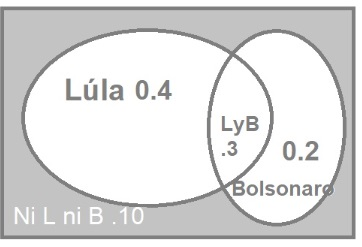
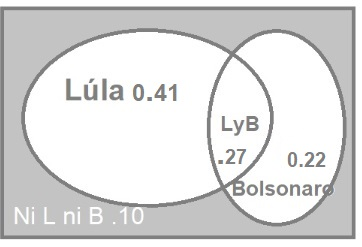
mmm

Changed region(s): [[0.7597, 0.5668, 0.9116, 0.6802], [0.3646, 0.3117, 0.4862, 0.4251], [0.6077, 0.5668, 0.6989, 0.6802]]

diff --git a/content/post/unidad_2_2_3.html b/content/post/unidad_2_2_3.html
@@ -129,10 +129,10 @@ primera carta es <strong>roja</strong>, sabemos que sólo quedan 25 cartas rojas
 <div id="ejemplo" class="section level5">
 <h5>Ejemplo</h5>
 <p>¿Quién será el próximo presidente de México?</p>
-<p>El Proceso electoral está en pleno curso en <strong>Brasil</strong>, tanto el candidato <strong>Jair Bolsonaro</strong> como <strong>Lúla da Silva</strong> han avanzado a la segunda ronda. Cármen Aristegui, una analista mexicana, cree que Lúla tiene un <span class="math inline">\(70\%\)</span> de probabilidades de obtener el mayor número de votos en la eleccióna a la presidencia mientras que que Bolsonaro un <span class="math inline">\(50\%\)</span>
-Adicionalmente Aristegui cree que hay una probabilidad del <span class="math inline">\(30\%\)</span> de que ambos obtengan la misma cantidad de votos. Se sabe ademas que la candidata Simone Tebet también esta en la contienda y obtuvo el <span class="math inline">\(4\%\)</span> del total de los votos.</p>
+<p>El Proceso electoral está en pleno curso en <strong>Brasil</strong>, tanto el candidato <strong>Jair Bolsonaro</strong> como <strong>Lúla da Silva</strong> han avanzado a la segunda ronda. Cármen Aristegui, una analista mexicana, cree que Lúla tiene un <span class="math inline">\(68\%\)</span> de probabilidades de obtener el mayor número de votos en la eleccióna a la presidencia mientras que que Bolsonaro un <span class="math inline">\(49\%\)</span>
+Adicionalmente Aristegui cree que hay una probabilidad del <span class="math inline">\(27\%\)</span> de que ambos obtengan la misma cantidad de votos. Se sabe ademas que la candidata Simone Tebet también esta en la contienda y obtuvo el <span class="math inline">\(4\%\)</span> del total de los votos.</p>
 <p>Como podemos observar, la asignación de estas probabilidades supera la unidad, por lo que no es muy útil para determinar qué candidato obtendrá la mayor cantidad de votos. Para poder asignar las probabilidades es necesario considerar el hecho de que estos eventos son <strong>mutuamente excluyentes</strong> y aplicar el <strong>teorema 1-6</strong>.</p>
-<p><span class="math display">\[P(A\cup B)=P(A)+P(B)-P(A\cap B)=.7+.5-3=0.9\]</span>
+<p><span class="math display">\[P(A\cup B)=P(A)+P(B)-P(A\cap B)=.68+.49-.27=0.9\]</span>
 En palabras la probabilidad de que almenos uno de los dos gane es del <span class="math inline">\(90\%\)</span>, y aplicando el <strong>teorema 1-4</strong> que establece <span class="math inline">\(P(A´)=1-P(A)\)</span> . Esto es, la probabilidad de que ninguno de los dos gane esta dada por el complemento de <span class="math inline">\(P(A\cup B)=1-0.9=10\%\)</span></p>
 <p>La siguiente figura representa la situación.</p>
 <p><img src="/img/lula.jpg" /></p>
